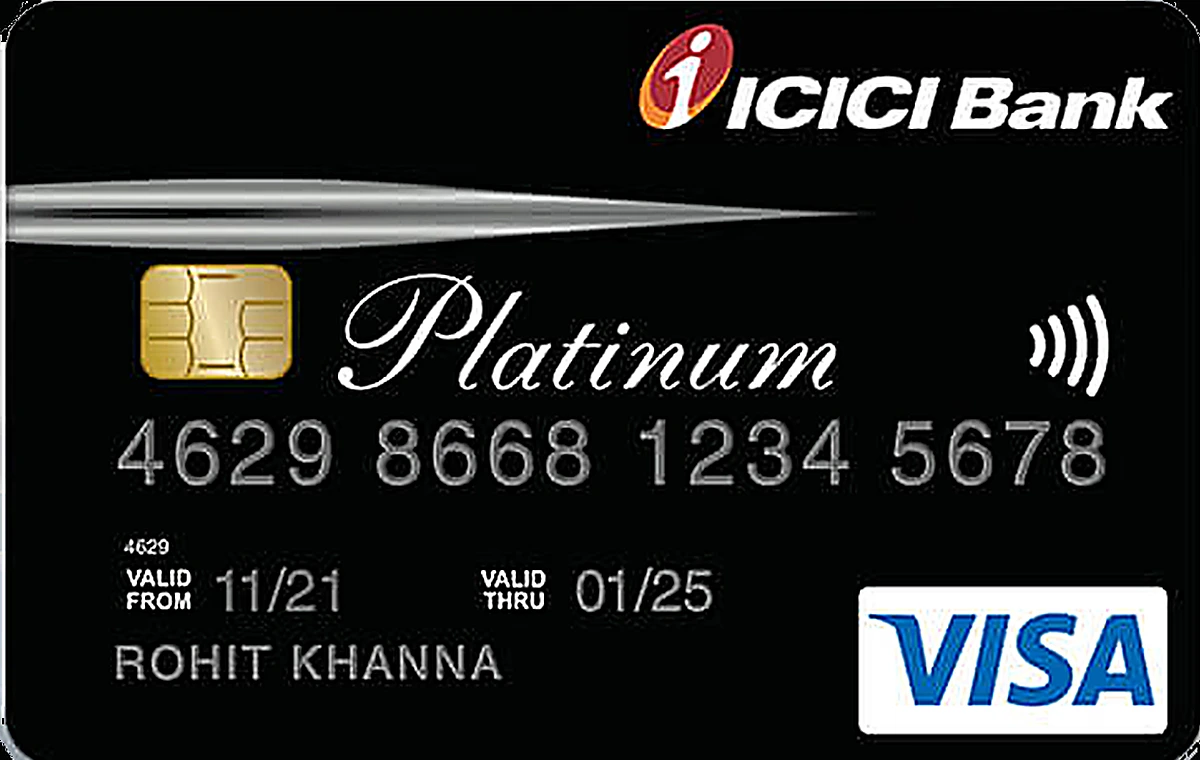
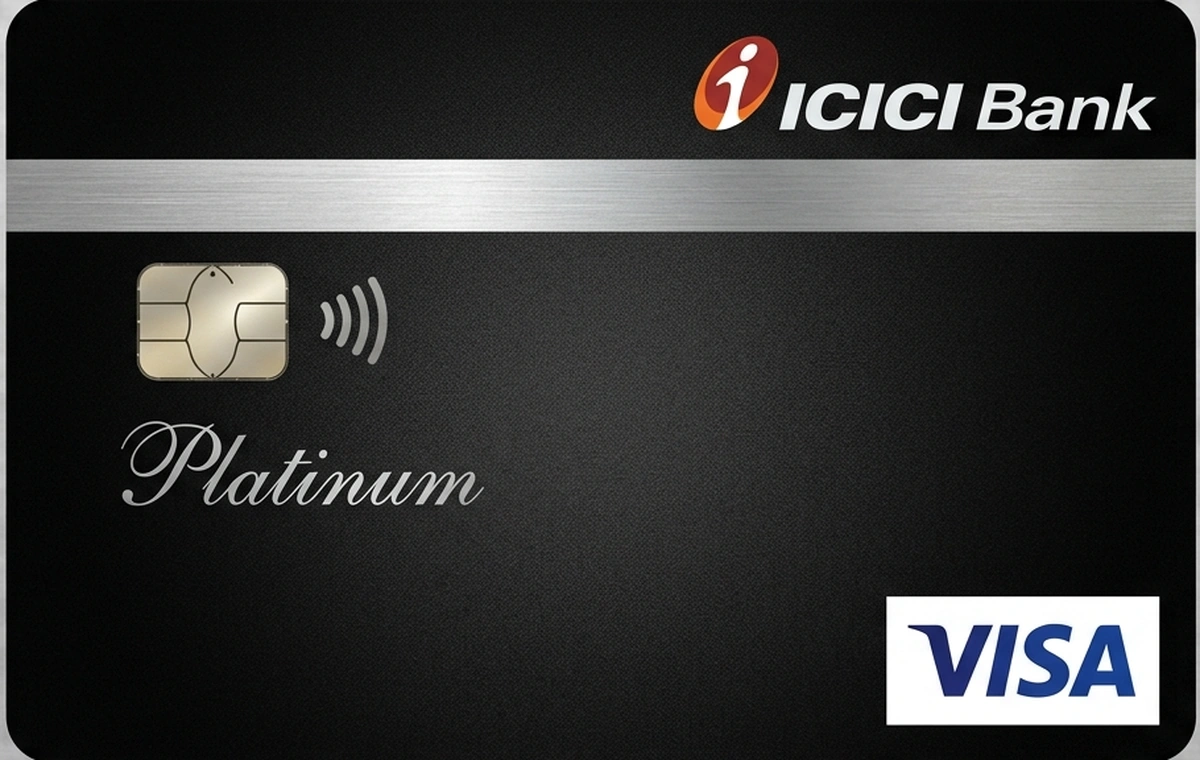
feat(cards): Phase 7 ICICI Bank credit cards authentic physical replicas

diff --git a/src/utils/cardRewardEngine.ts b/src/utils/cardRewardEngine.ts
@@ -579,6 +579,84 @@ export const CARD_PERK_RULES: CardPerkRule[] = [
     defaultOfflineReturnPct: 0.5,
     specialPerks: ["DreamFolios DragonPass international lounge access", "Golf rounds quarterly", "Dual Mastercard + Amex companion cards"],
   },
+  {
+    matchKeys: ["emeralde", "icici emeralde"],
+    cardDisplayName: "ICICI Emeralde Metal Credit Card",
+    merchantPerks: {
+      bookmyshow: { returnPct: 30.0, perkType: "discount", description: "Buy 1 Get 1 Free on BookMyShow (up to ₹750 discount twice a month)", badge: "BOGO ₹750 Movies" },
+      taj: { returnPct: 4.0, perkType: "reward_points", description: "4 ICICI Reward Points per ₹100 (₹1/point value) on luxury stays" },
+      makemytrip: { returnPct: 4.0, perkType: "reward_points", description: "4 ICICI Reward Points per ₹100 on flight & luxury travel bookings" },
+      swiggy: { returnPct: 3.0, perkType: "reward_points", description: "Culinary Treats dining discount + accelerated points" },
+    },
+    categoryPerks: {
+      "Entertainment": { returnPct: 30.0, perkType: "discount", description: "Buy 1 Get 1 free movie ticket up to ₹750 discount twice every month on BookMyShow" },
+      "Travel": { returnPct: 4.0, perkType: "reward_points", description: "4 Reward Points per ₹100 (1:1 redemption ratio for air miles)" },
+      "Food & Dining": { returnPct: 3.0, perkType: "discount", description: "ICICI Culinary Treats fine dining discounts" },
+    },
+    defaultOnlineReturnPct: 4.0,
+    defaultOfflineReturnPct: 4.0,
+    specialPerks: [
+      "Unlimited domestic and international airport lounge access via DreamFolios DragonPass",
+      "Unlimited complimentary golf rounds and lessons globally",
+      "Dedicated 24/7 Emeralde metal card concierge and Taj Epicure membership",
+    ],
+  },
+  {
+    matchKeys: ["rubyx", "icici rubyx"],
+    cardDisplayName: "ICICI Rubyx Credit Card",
+    merchantPerks: {
+      bookmyshow: { returnPct: 20.0, perkType: "discount", description: "Buy 1 Get 1 Free on BookMyShow (up to ₹250 discount twice a month)", badge: "BOGO ₹250 Movies" },
+      swiggy: { returnPct: 1.5, perkType: "reward_points", description: "ICICI Culinary Treats dining discount + 4 ICICI Rewards per ₹100" },
+      makemytrip: { returnPct: 1.5, perkType: "reward_points", description: "2 ICICI Reward Points per ₹100 + complimentary lounge visits" },
+    },
+    categoryPerks: {
+      "Entertainment": { returnPct: 20.0, perkType: "discount", description: "Buy 1 Get 1 free movie ticket up to ₹250 discount twice every month on BMS" },
+      "Food & Dining": { returnPct: 2.5, perkType: "discount", description: "Culinary Treats dining privileges" },
+    },
+    defaultOnlineReturnPct: 1.0,
+    defaultOfflineReturnPct: 0.5,
+    specialPerks: [
+      "2 complimentary domestic airport lounge visits per quarter on spend criteria",
+      "Complimentary golf rounds and dual-card variant privileges",
+    ],
+  },
+  {
+    matchKeys: ["coral", "icici coral"],
+    cardDisplayName: "ICICI Coral Credit Card",
+    merchantPerks: {
+      bookmyshow: { returnPct: 25.0, perkType: "discount", description: "25% discount up to ₹100 on BookMyShow twice a month", badge: "25% BMS Discount" },
+      swiggy: { returnPct: 1.0, perkType: "reward_points", description: "2 ICICI Reward Points per ₹100 on dining" },
+    },
+    categoryPerks: {
+      "Entertainment": { returnPct: 25.0, perkType: "discount", description: "25% off up to ₹100 on movie tickets on BookMyShow and Inox" },
+      "Utilities & Bills": { returnPct: 1.0, perkType: "reward_points", description: "2 Reward Points per ₹100 spent via RuPay UPI scan & pay" },
+    },
+    defaultOnlineReturnPct: 1.0,
+    defaultOfflineReturnPct: 0.5,
+    specialPerks: [
+      "1 complimentary domestic airport lounge visit per quarter on qualifying spends",
+      "1 complimentary domestic railway lounge visit per quarter",
+      "Seamless RuPay UPI merchant QR payments",
+    ],
+  },
+  {
+    matchKeys: ["icici makemytrip", "makemytrip icici", "mmt signature"],
+    cardDisplayName: "ICICI MakeMyTrip Signature Card",
+    merchantPerks: {
+      makemytrip: { returnPct: 4.0, perkType: "cashback", description: "₹4 My Cash per ₹200 on MakeMyTrip hotel & holiday bookings", badge: "4% My Cash" },
+      airindia: { returnPct: 2.0, perkType: "cashback", description: "₹2 My Cash per ₹200 on flight bookings" },
+      indigo: { returnPct: 2.0, perkType: "cashback", description: "₹2 My Cash per ₹200 on domestic flights" },
+    },
+    categoryPerks: {
+      "Travel": { returnPct: 4.0, perkType: "cashback", description: "Accelerated My Cash on hotel bookings and vacation packages" },
+    },
+    defaultOnlineReturnPct: 1.25,
+    defaultOfflineReturnPct: 1.0,
+    specialPerks: [
+      "Welcome voucher of ₹1,500 My Cash + MakeMyTrip Black Tier membership",
+      "1 complimentary international lounge access + 2 domestic airport lounge visits/quarter",
+    ],
+  },
 
   // ── SBI Cards
   {

diff --git a/src/utils/cardAssets.ts b/src/utils/cardAssets.ts
@@ -257,20 +257,27 @@ export const CARD_ART_PRESETS: CardArtPreset[] = [
       "platinum chip",
       "platinum chip card",
     ],
-    bgGradient: "linear-gradient(135deg, #1e293b 0%, #334155 50%, #0f172a 100%)",
+    bgGradient: "linear-gradient(135deg, #09090b 0%, #18181b 45%, #27272a 75%, #0f172a 100%)",
     accentColor: "#94a3b8",
     textColor: "#ffffff",
     badgeText: "PLATINUM CHIP",
-    patternType: "mesh",
+    patternType: "lines",
     imageUrl: "/cards/icici-platinum.png",
   },
   {
     id: "icici-coral-rupay",
-    name: "ICICI Coral RuPay UPI",
+    name: "ICICI Coral RuPay Credit Card",
     bankName: "ICICI Bank",
     network: "RuPay",
-    category: "virtual",
-    tags: ["coral rupay", "coral", "icici coral"],
+    category: "cashback",
+    tags: [
+      "icici coral credit card",
+      "coral credit card",
+      "coral rupay",
+      "icici coral rupay",
+      "coral",
+      "icici coral",
+    ],
     bgGradient: "linear-gradient(135deg, #9a3412 0%, #ea580c 50%, #431407 100%)",
     accentColor: "#fed7aa",
     textColor: "#ffffff",
@@ -281,11 +288,19 @@ export const CARD_ART_PRESETS: CardArtPreset[] = [
   },
   {
     id: "icici-emeralde",
-    name: "ICICI Emeralde Metal",
+    name: "ICICI Emeralde Metal Credit Card",
     bankName: "ICICI Bank",
     network: "Visa",
     category: "metal",
-    tags: ["emeralde", "icici emeralde", "emeralde private"],
+    tags: [
+      "icici emeralde credit card",
+      "emeralde credit card",
+      "icici emeralde metal",
+      "emeralde metal",
+      "emeralde private",
+      "emeralde",
+      "icici emeralde",
+    ],
     bgGradient: "linear-gradient(135deg, #064e3b 0%, #047857 50%, #022c22 100%)",
     accentColor: "#facc15",
     textColor: "#fef08a",
@@ -296,11 +311,18 @@ export const CARD_ART_PRESETS: CardArtPreset[] = [
   },
   {
     id: "icici-rubyx",
-    name: "ICICI Rubyx",
+    name: "ICICI Rubyx Credit Card",
     bankName: "ICICI Bank",
     network: "Mastercard",
     category: "lifestyle",
-    tags: ["rubyx", "icici rubyx"],
+    tags: [
+      "icici rubyx credit card",
+      "rubyx credit card",
+      "icici rubyx mastercard",
+      "rubyx mastercard",
+      "rubyx",
+      "icici rubyx",
+    ],
     bgGradient: "linear-gradient(135deg, #581c87 0%, #831843 50%, #3b0764 100%)",
     accentColor: "#f472b6",
     textColor: "#ffffff",
@@ -308,6 +330,28 @@ export const CARD_ART_PRESETS: CardArtPreset[] = [
     patternType: "mesh",
     imageUrl: "/cards/icici-rubyx.png",
     officialImageUrl: "https://www.icicibank.com/content/dam/icicibank-revamp/credit-card/pdp/rubyx.webp",
+  },
+  {
+    id: "icici-makemytrip",
+    name: "ICICI MakeMyTrip Signature Card",
+    bankName: "ICICI Bank",
+    network: "Visa",
+    category: "travel",
+    tags: [
+      "icici makemytrip credit card",
+      "makemytrip credit card",
+      "icici makemytrip",
+      "makemytrip icici",
+      "mmt signature",
+      "icici mmt",
+    ],
+    bgGradient: "linear-gradient(135deg, #0f172a 0%, #1e3a8a 50%, #0369a1 100%)",
+    accentColor: "#ef4444",
+    textColor: "#ffffff",
+    badgeText: "MMT SIGNATURE",
+    patternType: "lines",
+    imageUrl: "/cards/icici-makemytrip.png",
+    officialImageUrl: "https://www.icicibank.com/content/dam/icicibank-revamp/credit-card/pdp/makemytrip-signature.webp",
   },
 
   // ── State Bank of India (SBI) ──────────────────────────────────────────────

diff --git a/src/__tests__/creditCardArtwork.test.ts b/src/__tests__/creditCardArtwork.test.ts
@@ -131,6 +131,22 @@ describe("Credit Card Artwork & Variant Visuals Engine", () => {
       const hsbcTravel = getMatchingCardPreset("HSBC TravelOne Credit Card", "Mastercard");
       expect(hsbcTravel?.id).toBe("hsbc-travel-one");
       expect(hsbcTravel?.imageUrl).toBe("/cards/hsbc-travel-one.png");
+
+      const iciciEmeralde = getMatchingCardPreset("ICICI Emeralde Metal Credit Card", "Visa");
+      expect(iciciEmeralde?.id).toBe("icici-emeralde");
+      expect(iciciEmeralde?.imageUrl).toBe("/cards/icici-emeralde.png");
+
+      const iciciRubyx = getMatchingCardPreset("ICICI Rubyx Credit Card", "Mastercard");
+      expect(iciciRubyx?.id).toBe("icici-rubyx");
+      expect(iciciRubyx?.imageUrl).toBe("/cards/icici-rubyx.png");
+
+      const iciciCoral = getMatchingCardPreset("ICICI Coral RuPay Credit Card", "RuPay");
+      expect(iciciCoral?.id).toBe("icici-coral-rupay");
+      expect(iciciCoral?.imageUrl).toBe("/cards/icici-coral.png");
+
+      const iciciMmt = getMatchingCardPreset("ICICI MakeMyTrip Credit Card", "Visa");
+      expect(iciciMmt?.id).toBe("icici-makemytrip");
+      expect(iciciMmt?.imageUrl).toBe("/cards/icici-makemytrip.png");
     });
   });
 
@@ -324,6 +340,10 @@ describe("Credit Card Artwork & Variant Visuals Engine", () => {
       { query: "Standered Charted Manhattan Credit Card", expectedId: "sc-manhattan", expectedImage: "/cards/sc-manhattan.png" },
       { query: "Axis Bank Flipkart Credit Card", expectedId: "axis-flipkart", expectedImage: "/cards/axis-flipkart.png" },
       { query: "ICICI Platinum  Credit Card", expectedId: "icici-platinum", expectedImage: "/cards/icici-platinum.png" },
+      { query: "ICICI Emeralde Credit Card", expectedId: "icici-emeralde", expectedImage: "/cards/icici-emeralde.png" },
+      { query: "ICICI Rubyx Credit Card", expectedId: "icici-rubyx", expectedImage: "/cards/icici-rubyx.png" },
+      { query: "ICICI Coral Credit Card", expectedId: "icici-coral-rupay", expectedImage: "/cards/icici-coral.png" },
+      { query: "ICICI MakeMyTrip Credit Card", expectedId: "icici-makemytrip", expectedImage: "/cards/icici-makemytrip.png" },
       { query: "HDFC Times Credit Card", expectedId: "hdfc-times", expectedImage: "/cards/hdfc-times.png" },
     ];
 

diff --git a/src/components/tabs/CreditTab.tsx b/src/components/tabs/CreditTab.tsx
@@ -7483,6 +7483,9 @@ function CCModal({ onClose, onSave, initial = null, existingGroups = [], saving 
                     <option value="ICICI Amazon Pay" />
                     <option value="ICICI Sapphiro" />
                     <option value="ICICI Emeralde" />
+                    <option value="ICICI Rubyx" />
+                    <option value="ICICI Coral" />
+                    <option value="ICICI Platinum" />
                     <option value="SBI Cashback" />
                     <option value="SBI SimplyClick" />
                     <option value="SBI Card PRIME" />
